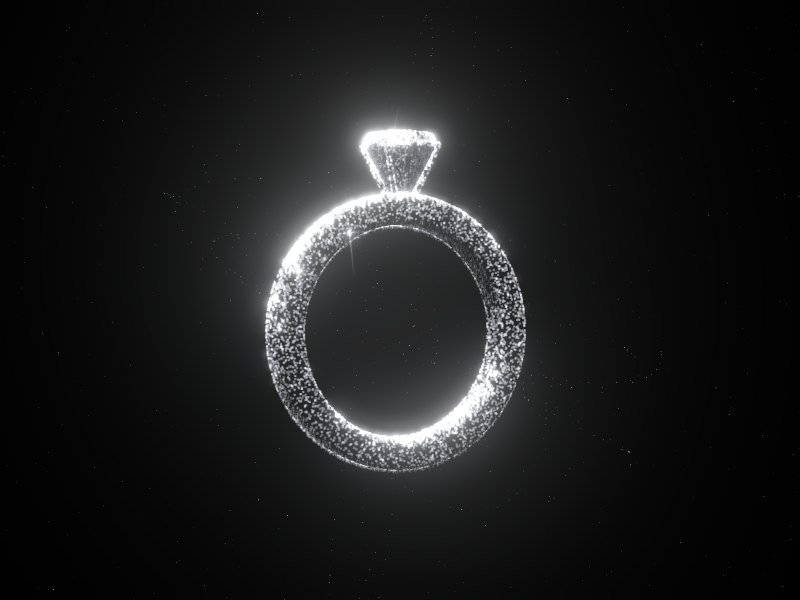
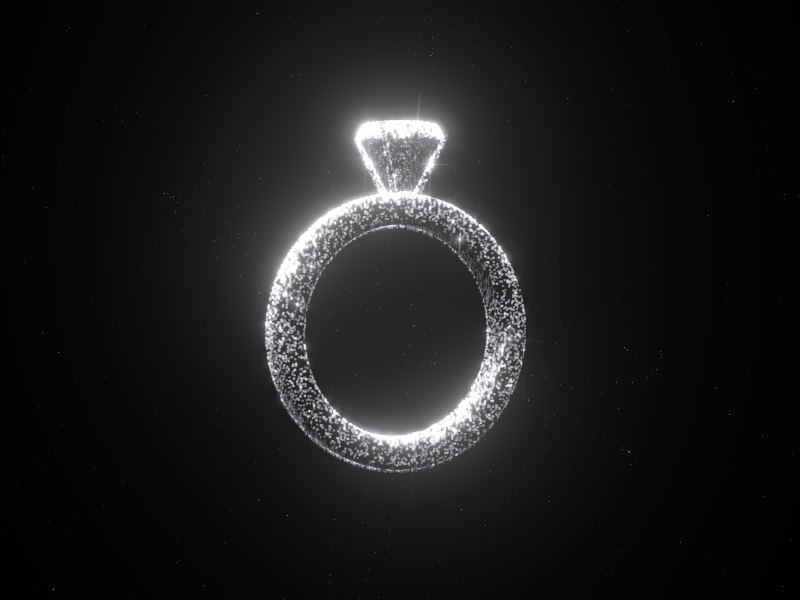
Ring stone 15 percent larger
Stone radii and height scaled by 1.15 while it still rests on the band.

Changed region(s): [[0.3125, 0.15, 0.6562, 0.81]]

diff --git a/src/works/ring/config/geometry.ts b/src/works/ring/config/geometry.ts
@@ -6,13 +6,13 @@ export const RING = {
   bandB: 0.11, // half width (front-back)
   squareness: 0.45, // cross-section exponent: 1 = ellipse, smaller = squarer
   facets: 16, // sides of the stone
-  tableR: 0.19,
-  tableY: 0.96,
-  girdleR: 0.22,
-  girdleY: 0.9,
-  culetR: 0.07, // pavilion ends in a small flat bottom resting on the band
+  tableR: 0.2185,
+  tableY: 1.01,
+  girdleR: 0.253,
+  girdleY: 0.94,
+  culetR: 0.0805, // pavilion ends in a small flat bottom resting on the band
   culetY: 0.63,
   prongs: 4,
   prongBaseY: 0.6,
-  prongRadius: 0.016,
+  prongRadius: 0.018,
 }
